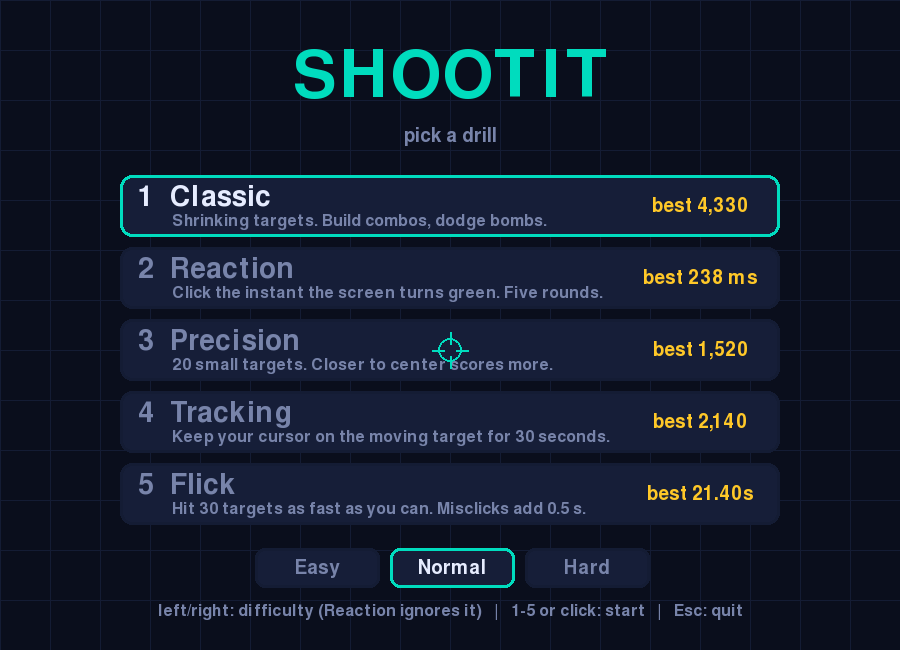
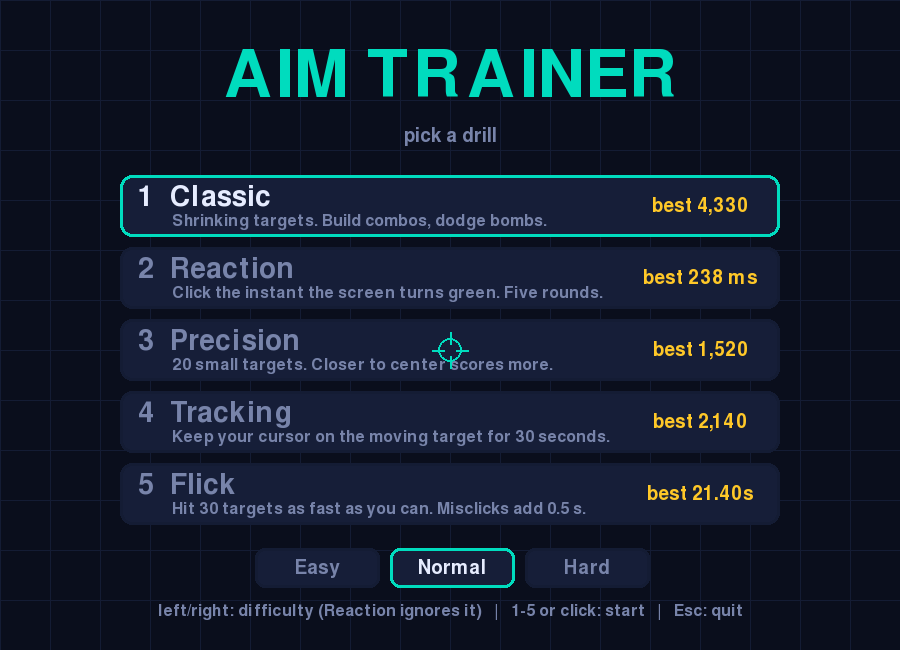
Rename to Aim Trainer, build real installers

Changed region(s): [[0.2489, 0.0615, 0.7467, 0.1538]]

diff --git a/docs/index.html b/docs/index.html
@@ -3,7 +3,7 @@
 <head>
 <meta charset="utf-8">
 <meta name="viewport" content="width=device-width, initial-scale=1">
-<title>Shootit - Aim Trainer</title>
+<title>Aim Trainer</title>
 <meta name="description" content="Free aim trainer with five drills for aim, accuracy, focus and reaction time. Windows, macOS and Linux.">
 <script>if(!matchMedia("(prefers-reduced-motion: reduce)").matches)document.documentElement.className="js"</script>
 <style>
@@ -82,7 +82,7 @@ footer .wrap{display:flex;justify-content:space-between;flex-wrap:wrap;gap:12px}
 </head>
 <body>
 <div class="wrap">
-<nav><b>SHOOTIT</b><a href="https://github.com/AWeebTaku/Aim-Trainer">GitHub</a></nav>
+<nav><b>AIM TRAINER</b><a href="https://github.com/AWeebTaku/Aim-Trainer">GitHub</a></nav>
 
 <header class="hero">
 <div>
@@ -94,8 +94,8 @@ footer .wrap{display:flex;justify-content:space-between;flex-wrap:wrap;gap:12px}
 </div>
 </div>
 <div>
-<img class="shot" id="poster" src="gameplay.png" width="900" height="650" alt="Shootit gameplay: a red and white bullseye target on a dark grid with a teal crosshair, score 460 and a x3 combo in the top bar">
-<canvas id="hero" width="900" height="650" hidden role="img" aria-label="Live Shootit demo. It plays itself until you move your mouse in or tap, then you can shoot the targets yourself."></canvas>
+<img class="shot" id="poster" src="gameplay.png" width="900" height="650" alt="Aim Trainer gameplay: a red and white bullseye target on a dark grid with a teal crosshair, score 460 and a x3 combo in the top bar">
+<canvas id="hero" width="900" height="650" hidden role="img" aria-label="Live Aim Trainer demo. It plays itself until you move your mouse in or tap, then you can shoot the targets yourself."></canvas>
 </div>
 </header>
 
@@ -121,7 +121,7 @@ footer .wrap{display:flex;justify-content:space-between;flex-wrap:wrap;gap:12px}
 <section class="rv">
 <h2>The real app</h2>
 <div class="pair">
-<img class="shot" src="menu.png" width="900" height="650" loading="lazy" alt="Shootit menu listing the five drills with saved best scores and Easy, Normal and Hard difficulty buttons">
+<img class="shot" src="menu.png" width="900" height="650" loading="lazy" alt="Aim Trainer menu listing the five drills with saved best scores and Easy, Normal and Hard difficulty buttons">
 <img class="shot" src="tracking.png" width="900" height="650" loading="lazy" alt="Tracking drill: one teal target on a dark grid with the percent on target and time left in the top bar">
 </div>
 </section>
@@ -129,12 +129,12 @@ footer .wrap{display:flex;justify-content:space-between;flex-wrap:wrap;gap:12px}
 <section class="rv" id="install">
 <h2>Download</h2>
 <dl>
-<dt>Windows</dt><dd><a href="https://github.com/AWeebTaku/Aim-Trainer/releases/latest/download/Shootit-windows-x64-setup.exe">Installer (.exe)</a> or <a href="https://github.com/AWeebTaku/Aim-Trainer/releases/latest/download/Shootit-windows-x64.msi">.msi</a></dd>
-<dt>macOS</dt><dd><a href="https://github.com/AWeebTaku/Aim-Trainer/releases/latest/download/Shootit-macos-arm64.dmg">Apple Silicon (.dmg)</a> or <a href="https://github.com/AWeebTaku/Aim-Trainer/releases/latest/download/Shootit-macos-x64.dmg">Intel (.dmg)</a></dd>
-<dt>Debian, Ubuntu</dt><dd><a href="https://github.com/AWeebTaku/Aim-Trainer/releases/latest/download/Shootit-linux-x64.deb">.deb</a> (<a href="https://github.com/AWeebTaku/Aim-Trainer/releases/latest/download/Shootit-linux-arm64.deb">ARM64</a>)</dd>
-<dt>Fedora, openSUSE</dt><dd><a href="https://github.com/AWeebTaku/Aim-Trainer/releases/latest/download/Shootit-linux-x64.rpm">.rpm</a> (<a href="https://github.com/AWeebTaku/Aim-Trainer/releases/latest/download/Shootit-linux-arm64.rpm">ARM64</a>)</dd>
-<dt>Arch, Manjaro</dt><dd><a href="https://github.com/AWeebTaku/Aim-Trainer/releases/latest/download/Shootit-linux-x64.pkg.tar.zst">.pkg.tar.zst</a> (<a href="https://github.com/AWeebTaku/Aim-Trainer/releases/latest/download/Shootit-linux-arm64.pkg.tar.zst">ARM64</a>)</dd>
-<dt>Any Linux</dt><dd><a href="https://github.com/AWeebTaku/Aim-Trainer/releases/latest/download/Shootit-linux-x64.AppImage">.AppImage</a> (<a href="https://github.com/AWeebTaku/Aim-Trainer/releases/latest/download/Shootit-linux-arm64.AppImage">ARM64</a>)</dd>
+<dt>Windows</dt><dd><a href="https://github.com/AWeebTaku/Aim-Trainer/releases/latest/download/Aim-Trainer-windows-x64-setup.exe">Installer (.exe)</a> or <a href="https://github.com/AWeebTaku/Aim-Trainer/releases/latest/download/Aim-Trainer-windows-x64.msi">.msi</a></dd>
+<dt>macOS</dt><dd><a href="https://github.com/AWeebTaku/Aim-Trainer/releases/latest/download/Aim-Trainer-macos-arm64.dmg">Apple Silicon (.dmg)</a> or <a href="https://github.com/AWeebTaku/Aim-Trainer/releases/latest/download/Aim-Trainer-macos-x64.dmg">Intel (.dmg)</a></dd>
+<dt>Debian, Ubuntu</dt><dd><a href="https://github.com/AWeebTaku/Aim-Trainer/releases/latest/download/Aim-Trainer-linux-x64.deb">.deb</a> (<a href="https://github.com/AWeebTaku/Aim-Trainer/releases/latest/download/Aim-Trainer-linux-arm64.deb">ARM64</a>)</dd>
+<dt>Fedora, openSUSE</dt><dd><a href="https://github.com/AWeebTaku/Aim-Trainer/releases/latest/download/Aim-Trainer-linux-x64.rpm">.rpm</a> (<a href="https://github.com/AWeebTaku/Aim-Trainer/releases/latest/download/Aim-Trainer-linux-arm64.rpm">ARM64</a>)</dd>
+<dt>Arch, Manjaro</dt><dd><a href="https://github.com/AWeebTaku/Aim-Trainer/releases/latest/download/Aim-Trainer-linux-x64.pkg.tar.zst">.pkg.tar.zst</a> (<a href="https://github.com/AWeebTaku/Aim-Trainer/releases/latest/download/Aim-Trainer-linux-arm64.pkg.tar.zst">ARM64</a>)</dd>
+<dt>Any Linux</dt><dd><a href="https://github.com/AWeebTaku/Aim-Trainer/releases/latest/download/Aim-Trainer-linux-x64.AppImage">.AppImage</a> (<a href="https://github.com/AWeebTaku/Aim-Trainer/releases/latest/download/Aim-Trainer-linux-arm64.AppImage">ARM64</a>)</dd>
 <dt>From source</dt><dd><code>pip install pygame-ce &amp;&amp; python main.py</code></dd>
 </dl>
 <p id="rel" hidden></p>
@@ -153,7 +153,7 @@ const dist=(a,b,c,d)=>Math.hypot(a-c,b-d);
 const gauss=()=>(Math.random()+Math.random()+Math.random()-1.5)*2;   // roughly N(0,1)
 const ease=(v,t,dt,k)=>v+(t-v)*Math.min(1,dt*k);
 const prune=a=>{for(let i=a.length-1;i>=0;i--)if(a[i].l<=0)a.splice(i,1)};
-const store={get(){try{return +localStorage.getItem("shootit-best")||0}catch(e){return 0}},set(v){try{localStorage.setItem("shootit-best",v)}catch(e){}}};
+const store={get(){try{return +localStorage.getItem("aim-trainer-best")||0}catch(e){return 0}},set(v){try{localStorage.setItem("aim-trainer-best",v)}catch(e){}}};
 
 /* ---------- shared drawing (mirrors the desktop game's look) ---------- */
 const bgc=document.createElement("canvas");bgc.width=W*2;bgc.height=H*2;
@@ -365,7 +365,7 @@ const io=new IntersectionObserver(es=>es.forEach(e=>{if(e.isIntersecting){e.targ
 document.querySelectorAll(".rv").forEach(el=>io.observe(el));
 
 /* button for the visitor's OS */
-const ua=navigator.userAgent,base="https://github.com/AWeebTaku/Aim-Trainer/releases/latest/download/Shootit-";
+const ua=navigator.userAgent,base="https://github.com/AWeebTaku/Aim-Trainer/releases/latest/download/Aim-Trainer-";
 const f=/Win/.test(ua)?["windows-x64-setup.exe","Windows"]:/Mac/.test(ua)?["","macOS"]:/Linux/.test(ua)&&!/Android/.test(ua)?["linux-x64.AppImage","Linux"]:null;
 if(f){const a=document.getElementById("dl");a.href=f[0]?base+f[0]:"#install";a.textContent="Download for "+f[1]}  /* Macs hide Apple Silicon vs Intel from the browser, so macOS jumps to the list */
 

diff --git a/main.py b/main.py
@@ -1,4 +1,4 @@
-"""Shootit - an arcade aim trainer with five drills: Classic, Reaction, Precision, Tracking, Flick."""
+"""Aim Trainer - an arcade aim trainer with five drills: Classic, Reaction, Precision, Tracking, Flick."""
 import json
 import math
 import random
@@ -16,9 +16,9 @@ FPS = 60
 def scores_path():
     # per-user data dir: survives packaged one-file builds (their install dir is a wiped temp folder)
     try:
-        return Path(pygame.system.get_pref_path("Shootit", "Shootit")) / "highscores.json"
+        return Path(pygame.system.get_pref_path("Aim-Trainer", "Aim-Trainer")) / "highscores.json"
     except Exception:
-        return Path.home() / ".shootit_highscores.json"
+        return Path.home() / ".aim_trainer_highscores.json"
 
 
 SCORES_FILE = scores_path()
@@ -485,7 +485,7 @@ class Game:
     def __init__(self):
         pygame.init()
         self.win = pygame.display.set_mode((WIDTH, HEIGHT))
-        pygame.display.set_caption("Shootit - Aim Trainer")
+        pygame.display.set_caption("Aim Trainer")
         pygame.mouse.set_visible(False)
         self.clock = pygame.time.Clock()
         self.big = pygame.font.Font(None, 96)
@@ -548,7 +548,7 @@ class Game:
 
     def draw_menu(self):
         self.draw_bg()
-        self.text(self.big, "SHOOTIT", ACCENT, center=(WIDTH // 2, 80))
+        self.text(self.big, "AIM TRAINER", ACCENT, center=(WIDTH // 2, 80))
         self.text(self.small, "pick a drill", DIM, center=(WIDTH // 2, 136))
         for i, cls in enumerate(MODES):
             sel, r = i == self.sel, self.row_rect(i)

diff --git a/README.md b/README.md
@@ -1,4 +1,4 @@
-# Shootit
+# Aim Trainer
 
 ![CI](../../actions/workflows/ci.yml/badge.svg) ![License: MIT](https://img.shields.io/badge/license-MIT-green)
 
@@ -30,17 +30,17 @@ Grab the file for your system from the [Releases page](../../releases/latest). `
 
 | System | File | Install |
 |--------|------|---------|
-| Windows 10/11 | `Shootit-windows-x64-setup.exe` (current user, no admin needed) or `Shootit-windows-x64.msi` (all users) | Double-click it. If SmartScreen warns, choose *More info > Run anyway* (unsigned) |
-| macOS | `Shootit-macos-arm64.dmg` (Apple Silicon) or `Shootit-macos-x64.dmg` (Intel) | Open the dmg, drag Shootit to Applications. First launch: right-click > *Open* (unsigned) |
-| Debian, Ubuntu, Mint | `Shootit-linux-x64.deb` | `sudo apt install ./Shootit-linux-x64.deb` |
-| Fedora, openSUSE | `Shootit-linux-x64.rpm` | Fedora: `sudo dnf install ./Shootit-linux-x64.rpm`. openSUSE: `sudo zypper --no-gpg-checks install ./Shootit-linux-x64.rpm` |
-| Arch, Manjaro | `Shootit-linux-x64.pkg.tar.zst` | `sudo pacman -U Shootit-linux-x64.pkg.tar.zst` |
-| Any Linux | `Shootit-linux-x64.AppImage` | `chmod +x Shootit-linux-x64.AppImage && ./Shootit-linux-x64.AppImage` |
+| Windows 10/11 | `Aim-Trainer-windows-x64-setup.exe` (current user, no admin needed) or `Aim-Trainer-windows-x64.msi` (all users) | Double-click it. If SmartScreen warns, choose *More info > Run anyway* (unsigned) |
+| macOS | `Aim-Trainer-macos-arm64.dmg` (Apple Silicon) or `Aim-Trainer-macos-x64.dmg` (Intel) | Open the dmg, drag Aim Trainer to Applications. First launch: right-click > *Open* (unsigned) |
+| Debian, Ubuntu, Mint | `Aim-Trainer-linux-x64.deb` | `sudo apt install ./Aim-Trainer-linux-x64.deb` |
+| Fedora, openSUSE | `Aim-Trainer-linux-x64.rpm` | Fedora: `sudo dnf install ./Aim-Trainer-linux-x64.rpm`. openSUSE: `sudo zypper --no-gpg-checks install ./Aim-Trainer-linux-x64.rpm` |
+| Arch, Manjaro | `Aim-Trainer-linux-x64.pkg.tar.zst` | `sudo pacman -U Aim-Trainer-linux-x64.pkg.tar.zst` |
+| Any Linux | `Aim-Trainer-linux-x64.AppImage` | `chmod +x Aim-Trainer-linux-x64.AppImage && ./Aim-Trainer-linux-x64.AppImage` |
 
 On ARM Linux, replace `x64` with `arm64` in the file names.
 
-- **Remove (Linux packages):** `sudo apt remove shootit`, `sudo dnf remove shootit`, `sudo zypper remove shootit` or `sudo pacman -R shootit`. The deb, rpm and pacman packages add a menu entry, or run `shootit` in a terminal.
-- **AppImage** needs FUSE 2 (Ubuntu: `sudo apt install libfuse2`, or `libfuse2t64` on 24.04+). Without it, run `./Shootit-linux-x64.AppImage --appimage-extract-and-run`.
+- **Remove (Linux packages):** `sudo apt remove aim-trainer`, `sudo dnf remove aim-trainer`, `sudo zypper remove aim-trainer` or `sudo pacman -R aim-trainer`. The deb, rpm and pacman packages add a menu entry, or run `aim-trainer` in a terminal.
+- **AppImage** needs FUSE 2 (Ubuntu: `sudo apt install libfuse2`, or `libfuse2t64` on 24.04+). Without it, run `./Aim-Trainer-linux-x64.AppImage --appimage-extract-and-run`.
 - **Linux requirements:** a desktop session (X11 or Wayland) and glibc 2.35 or newer (Ubuntu 22.04+, Debian 12+, Fedora 36+, current Arch). On older systems, run from source.
 - **Windows and macOS** installers are unsigned, so you will see an "unknown developer" warning on first run.
 
@@ -86,7 +86,7 @@ Arch and other distros with "externally managed" Python (PEP 668) require the vi
 
 - **Use `pygame-ce`, not `pygame`.** They share the `import pygame` name and conflict when both are installed. If you see font or import errors (common on Python 3.13+), run `pip uninstall pygame && pip install --force-reinstall pygame-ce`.
 - **No window on Wayland-only setups:** try `SDL_VIDEODRIVER=wayland python main.py` or `SDL_VIDEODRIVER=x11 ...`.
-- **High scores** are stored per user: `~/.local/share/Shootit/Shootit/` (Linux), `~/Library/Application Support/Shootit/Shootit/` (macOS), `%APPDATA%\Shootit\Shootit\` (Windows). Delete `highscores.json` there to reset.
+- **High scores** are stored per user: `~/.local/share/Aim-Trainer/Aim-Trainer/` (Linux), `~/Library/Application Support/Aim-Trainer/Aim-Trainer/` (macOS), `%APPDATA%\Aim-Trainer\Aim-Trainer\` (Windows). Delete `highscores.json` there to reset.
 
 ## Controls
 
@@ -115,7 +115,7 @@ To build locally for your own OS:
 
 ```bash
 pip install pyinstaller
-pyinstaller --onefile --noconsole --name Shootit main.py   # use --windowed instead on macOS
+pyinstaller --onefile --noconsole --name Aim-Trainer main.py   # use --windowed instead on macOS
 ```
 
 The result is in `dist/` (not tracked in git). The installers (setup.exe, msi, dmg, deb, rpm, pkg.tar.zst, AppImage) are built in CI: see `.github/workflows/release.yml` and `packaging/`.
